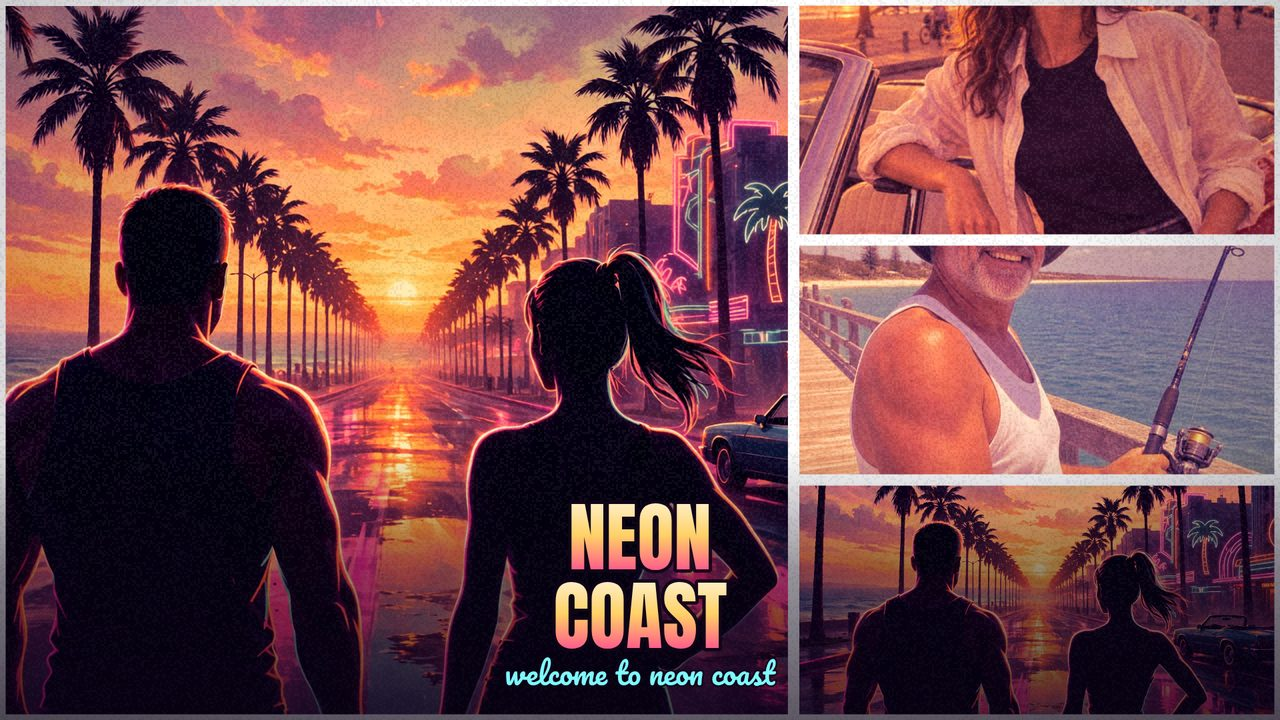
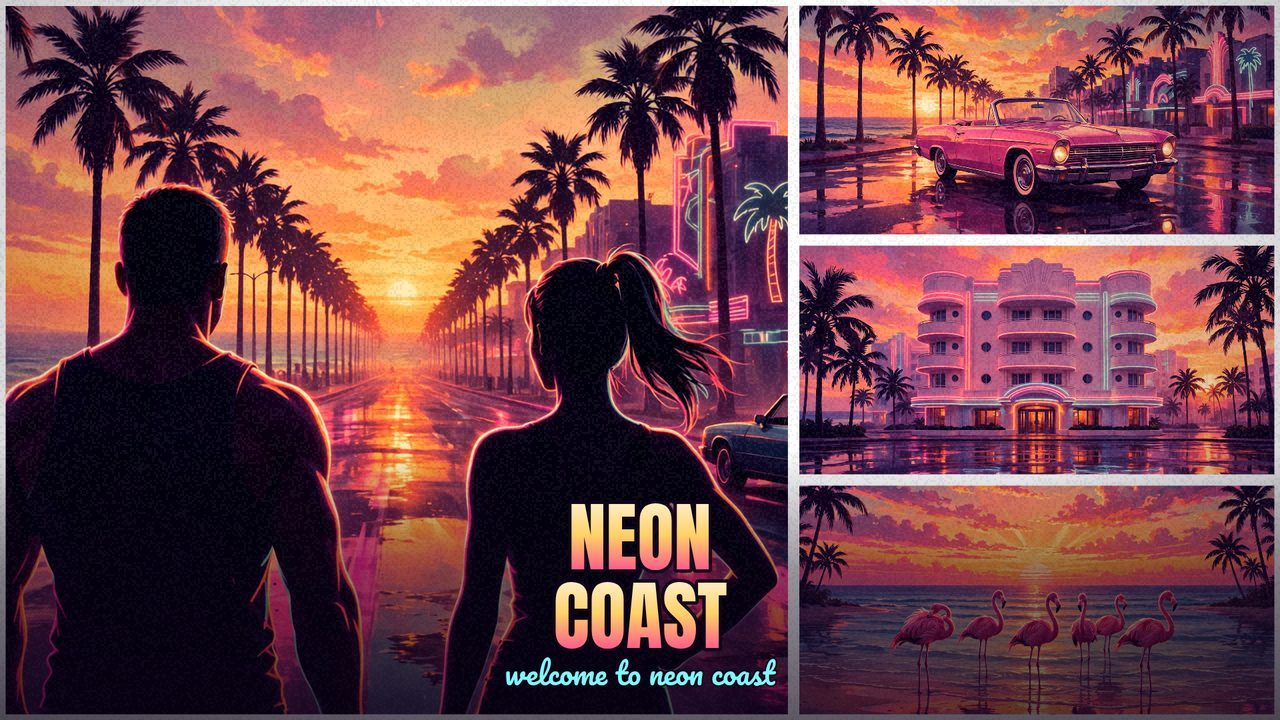
Fix cover screenshots: seven distinct samples, no repeated panels
Generate four new sunset scenes in the neon-duo style (pink convertible,
neon art-deco hotel, flamingos, helicopter) so the sample pool holds
seven photos. SAMPLE_FILES deals them landscape-first, so the hero
layout's wide side panels get wide scenes that crop cleanly and every
panel of every layout (six at most) shows a different photo.
Re-export both covers from the app and re-shoot both editor views.

diff --git a/app/src/main.js b/app/src/main.js
@@ -15,7 +15,20 @@ const EXPORT_SIZES = [
   { id: 'wide', label: 'Wide 1920 x 1080', width: 1920, height: 1080 },
 ];
 
-const SAMPLE_FILES = ['samples/neon-duo.jpg', 'samples/boulevard.jpg', 'samples/pier.jpg'];
+// Seven bundled samples, dealt into the panels in this order: the duo hero
+// first, then the wide landscape scenes (they crop cleanly into the hero
+// layout's wide side panels), then the portrait-friendly shots. With seven
+// photos every layout — six panels at most — shows a different photo in
+// every panel instead of repeating the pool.
+const SAMPLE_FILES = [
+  'samples/neon-duo.jpg',
+  'samples/convertible.jpg',
+  'samples/hotel-neon.jpg',
+  'samples/flamingos.jpg',
+  'samples/boulevard.jpg',
+  'samples/pier.jpg',
+  'samples/helicopter.jpg',
+];
 
 const els = {
   canvas: document.getElementById('preview'),

diff --git a/README.md b/README.md
@@ -31,9 +31,12 @@ in desktop Chrome (or serve `app/` with any static server, e.g.
 - **Exports** at the three common post sizes: 1080 x 1080,
   1080 x 1350 and 1920 x 1080 PNG.
 - **Built-in samples.** "Load sample photos" fills the panels with the
-  bundled images, including an original generated scene of two leads
+  seven bundled images — enough that every panel of every layout shows a
+  different photo. They include an original generated scene of two leads
   seen from behind as rim-lit silhouettes on a sunset boulevard
-  (`app/samples/neon-duo.jpg`).
+  (`app/samples/neon-duo.jpg`) plus matching generated sunset scenes of
+  a pink convertible, a neon art-deco hotel, flamingos on the beach and
+  a helicopter over the sea, alongside two stock-style portraits.
 
 Source layout: `app/src/layouts.js` (panel geometry), `app/src/grade.js`
 (gradient-map colour grades), `app/src/render.js` (the one renderer used
